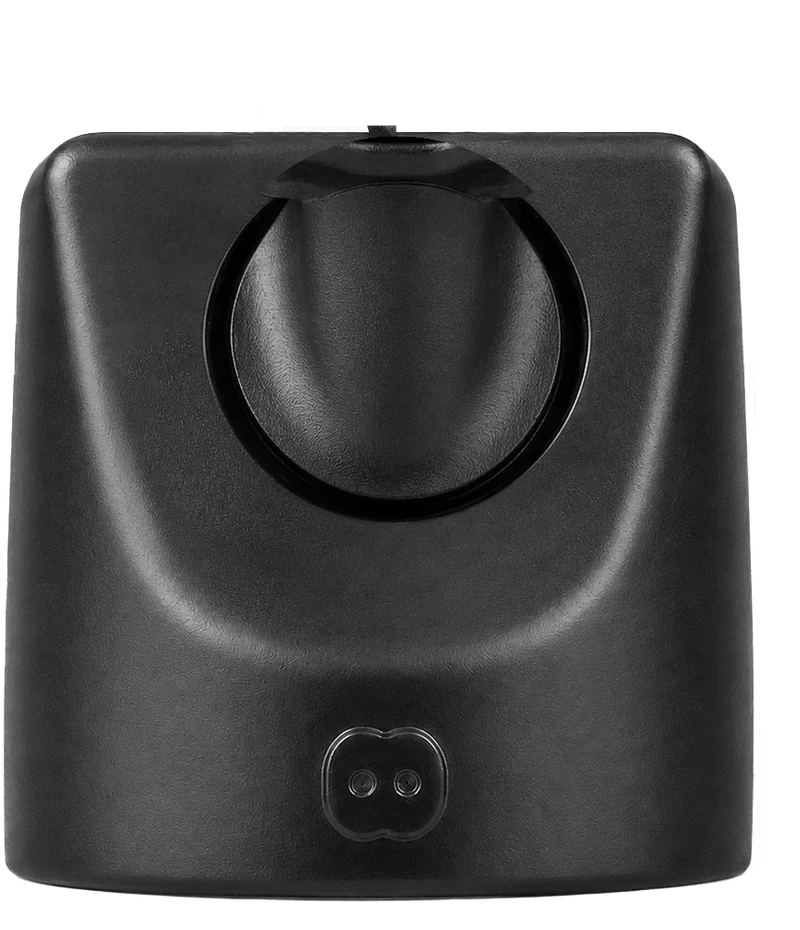
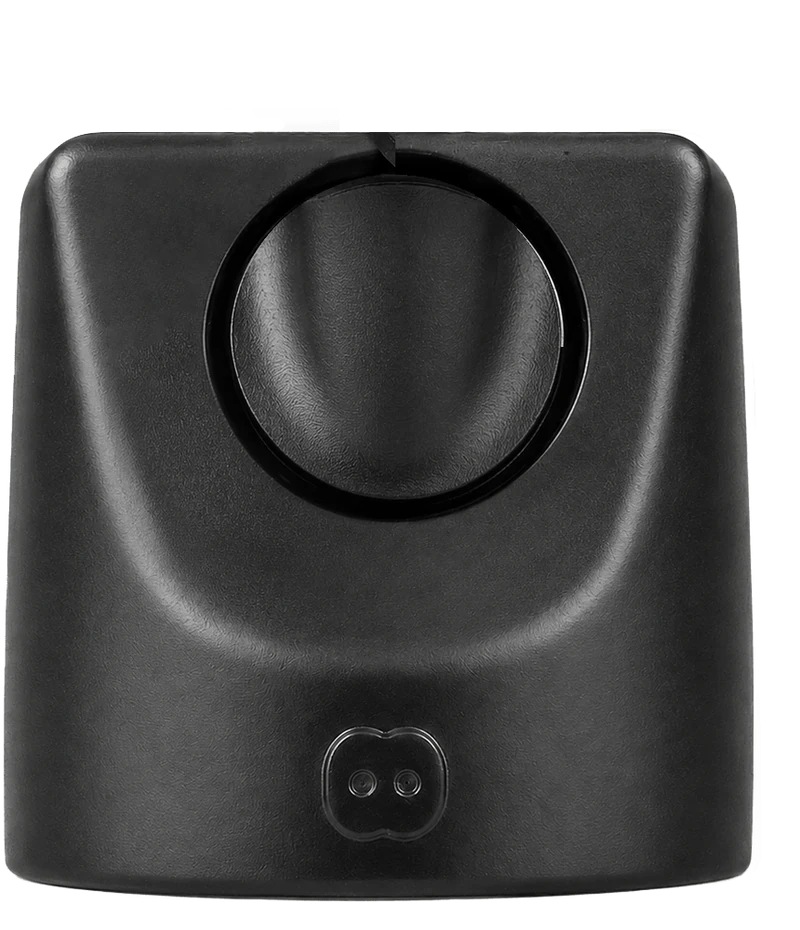
81X360: rotor limited to the disc inside the bezel, exact nozzle cut, corrected pivot

Changed region(s): [[0.3438, 0.1247, 0.6562, 0.2495], [0.6875, 0.3118, 0.7188, 0.3742]]

diff --git a/x360.html b/x360.html
@@ -14,7 +14,7 @@
 <link rel="preconnect" href="https://fonts.googleapis.com">
 <link rel="preconnect" href="https://fonts.gstatic.com" crossorigin>
 <link href="https://fonts.googleapis.com/css2?family=Archivo:wdth,wght@75..125,400..900&display=swap" rel="stylesheet">
-<link rel="stylesheet" href="styles.css?v=4">
+<link rel="stylesheet" href="styles.css?v=5">
 </head>
 <body class="page-product">
 
@@ -52,8 +52,8 @@
     <div class="x360-layout">
       <div class="x360-stage" id="x360Stage">
         <div class="x360-cap" id="x360Cap" aria-label="81X360° with the nozzle turning left and right" role="img">
-          <img class="x360-body" src="media/products/x360-body.webp" alt="" width="800" height="930">
-          <img class="x360-rotor" id="x360Rotor" src="media/products/x360-rotor.webp" alt="" width="800" height="930">
+          <img class="x360-body" src="media/products/x360-body.webp?v=2" alt="" width="800" height="930">
+          <img class="x360-rotor" id="x360Rotor" src="media/products/x360-rotor.webp?v=2" alt="" width="800" height="930">
         </div>
         <div class="x360-control">
           <label for="x360Angle" class="x360-readout"><span id="x360Deg">0°</span> · drag to turn</label>

diff --git a/styles.css b/styles.css
@@ -395,7 +395,7 @@ body.has-sticky { padding-bottom: 72px; }
 .x360-stage { border-radius: var(--radius); background: radial-gradient(60% 55% at 50% 42%, rgba(255,240,0,.16), transparent 70%), var(--bg-2); border: 1px solid var(--line); padding: 20px 20px 18px; }
 .x360-cap { position: relative; width: min(100%, 420px); margin: 0 auto; aspect-ratio: 800 / 930; }
 .x360-body, .x360-rotor { position: absolute; inset: 0; width: 100%; height: 100%; display: block; }
-.x360-rotor { transform-origin: 49.53% 35.8%; will-change: transform; }
+.x360-rotor { transform-origin: 49.36% 36.45%; will-change: transform; }
 .x360-control { margin-top: 10px; display: grid; gap: 8px; }
 .x360-readout { font-size: 14px; color: var(--ink-2); display: flex; justify-content: center; gap: 6px; }
 .x360-readout span { color: var(--yellow); font-weight: 900; font-variant-numeric: tabular-nums; min-width: 3.5ch; text-align: right; }
